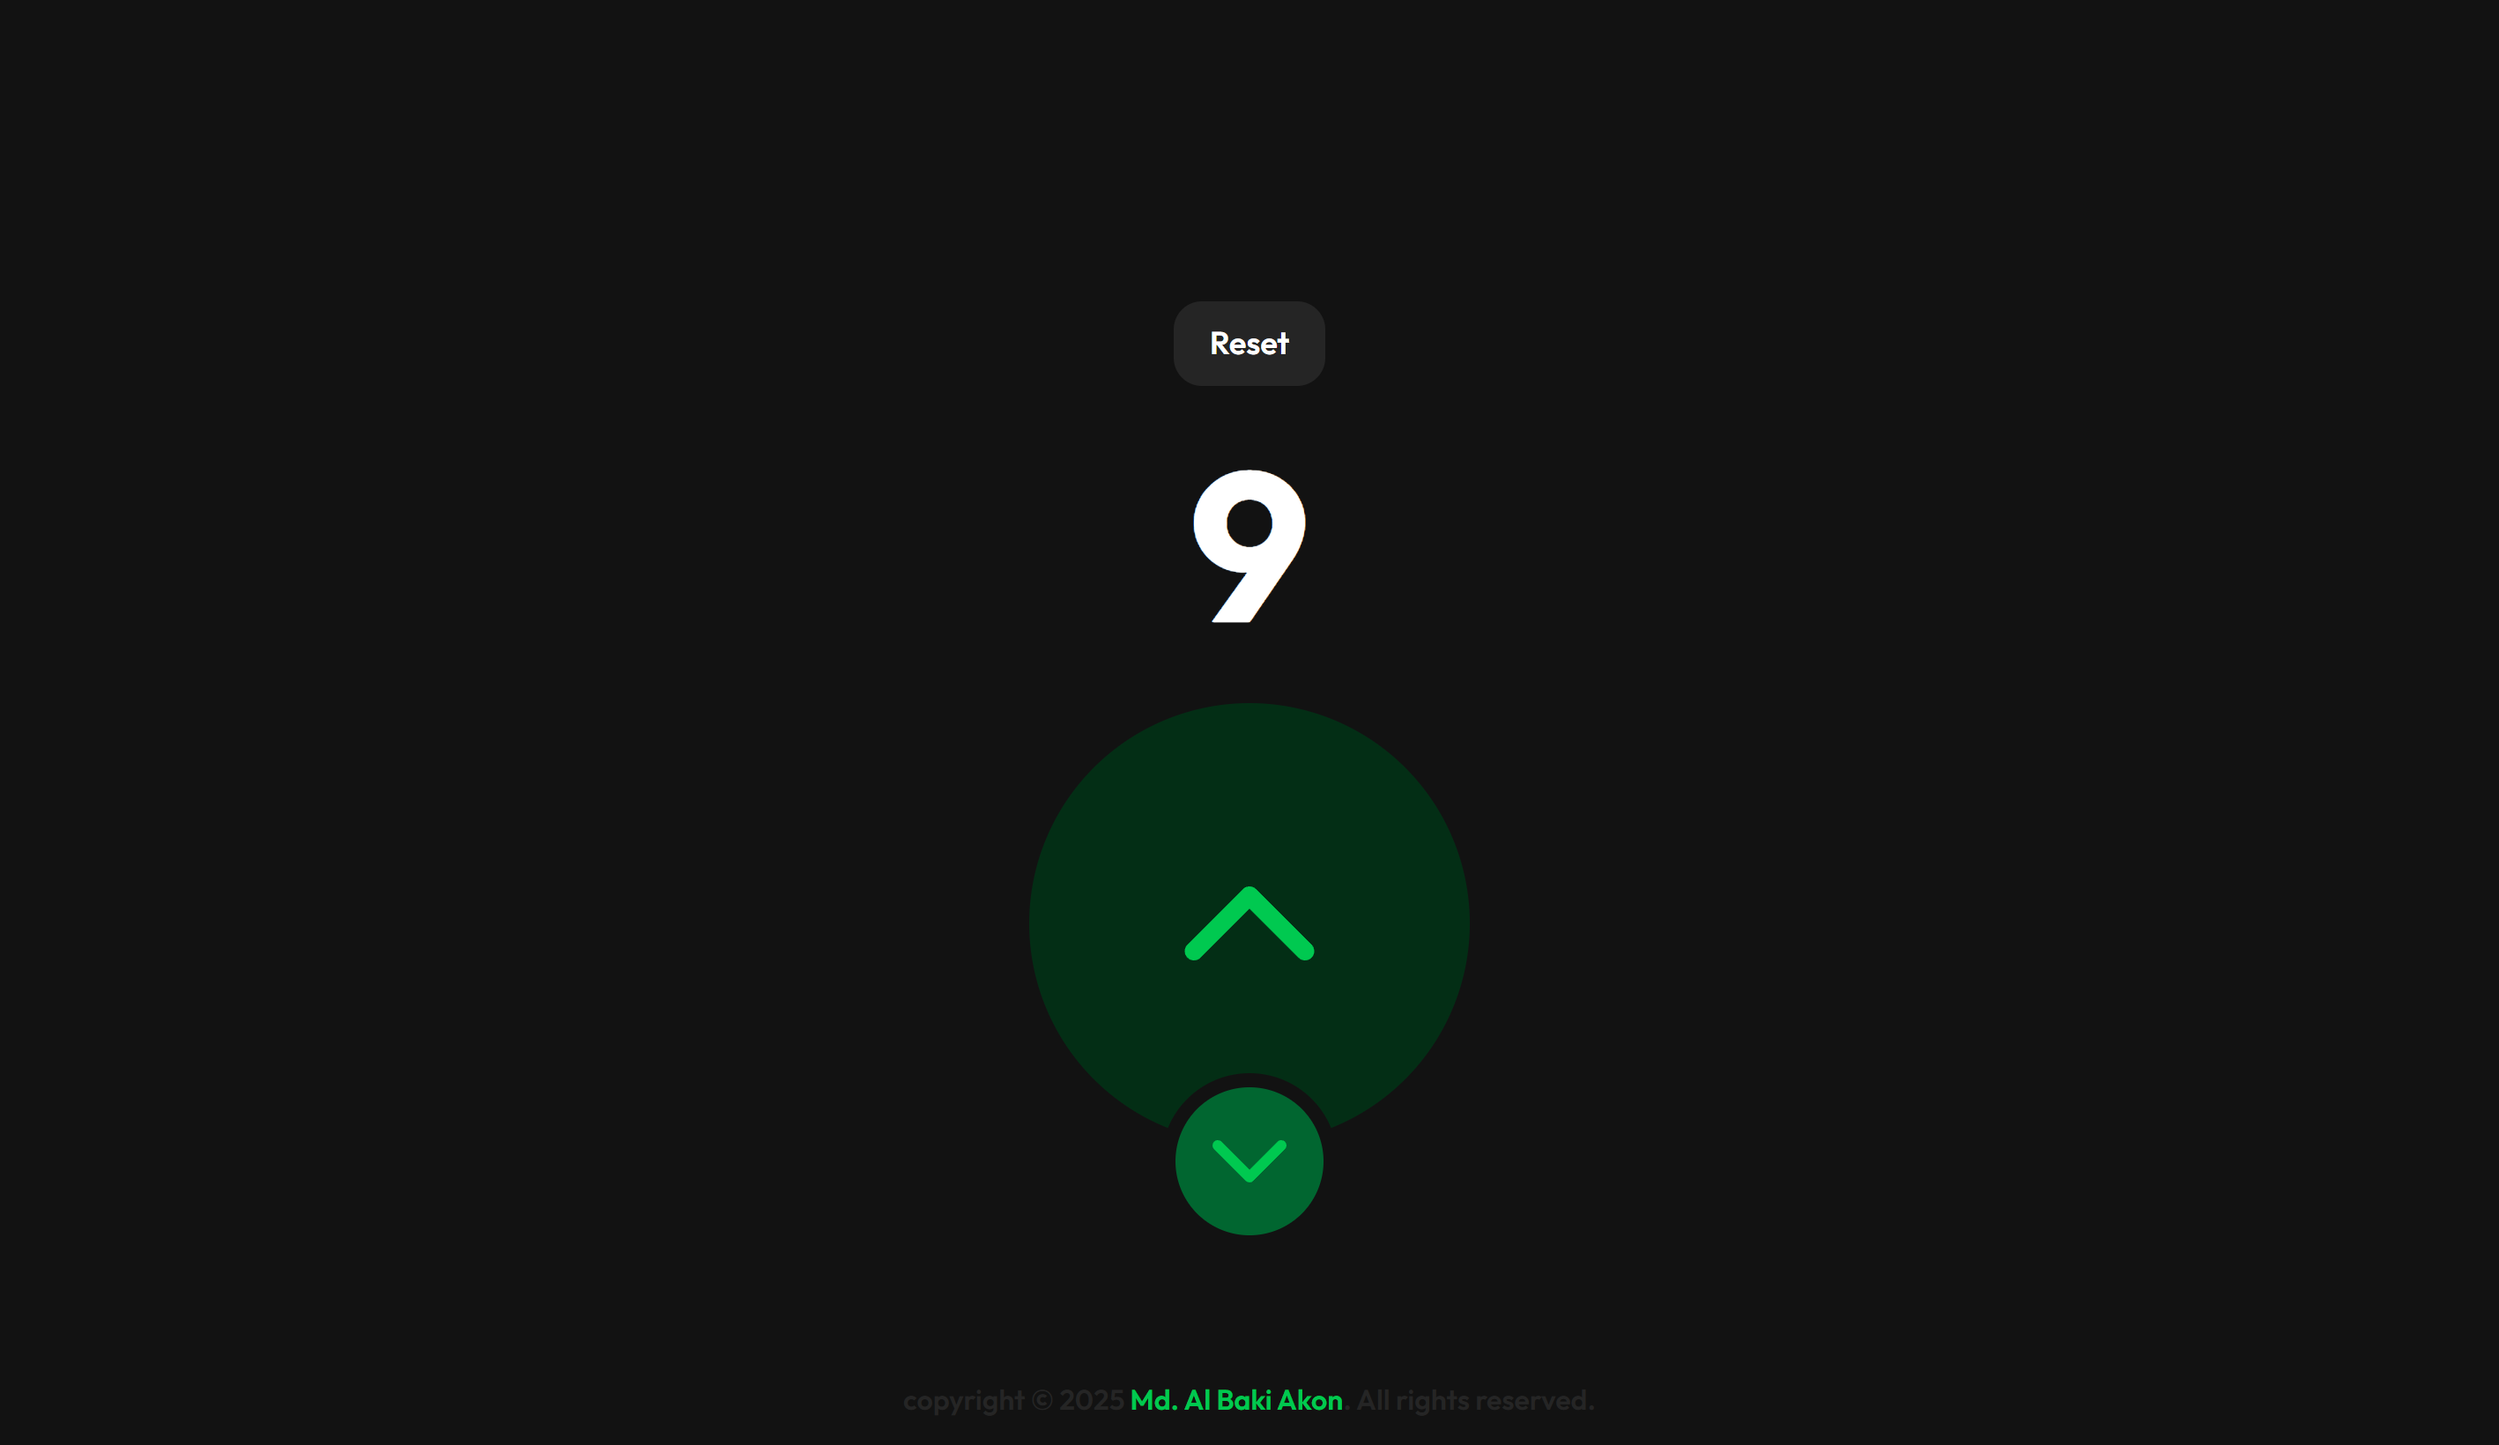
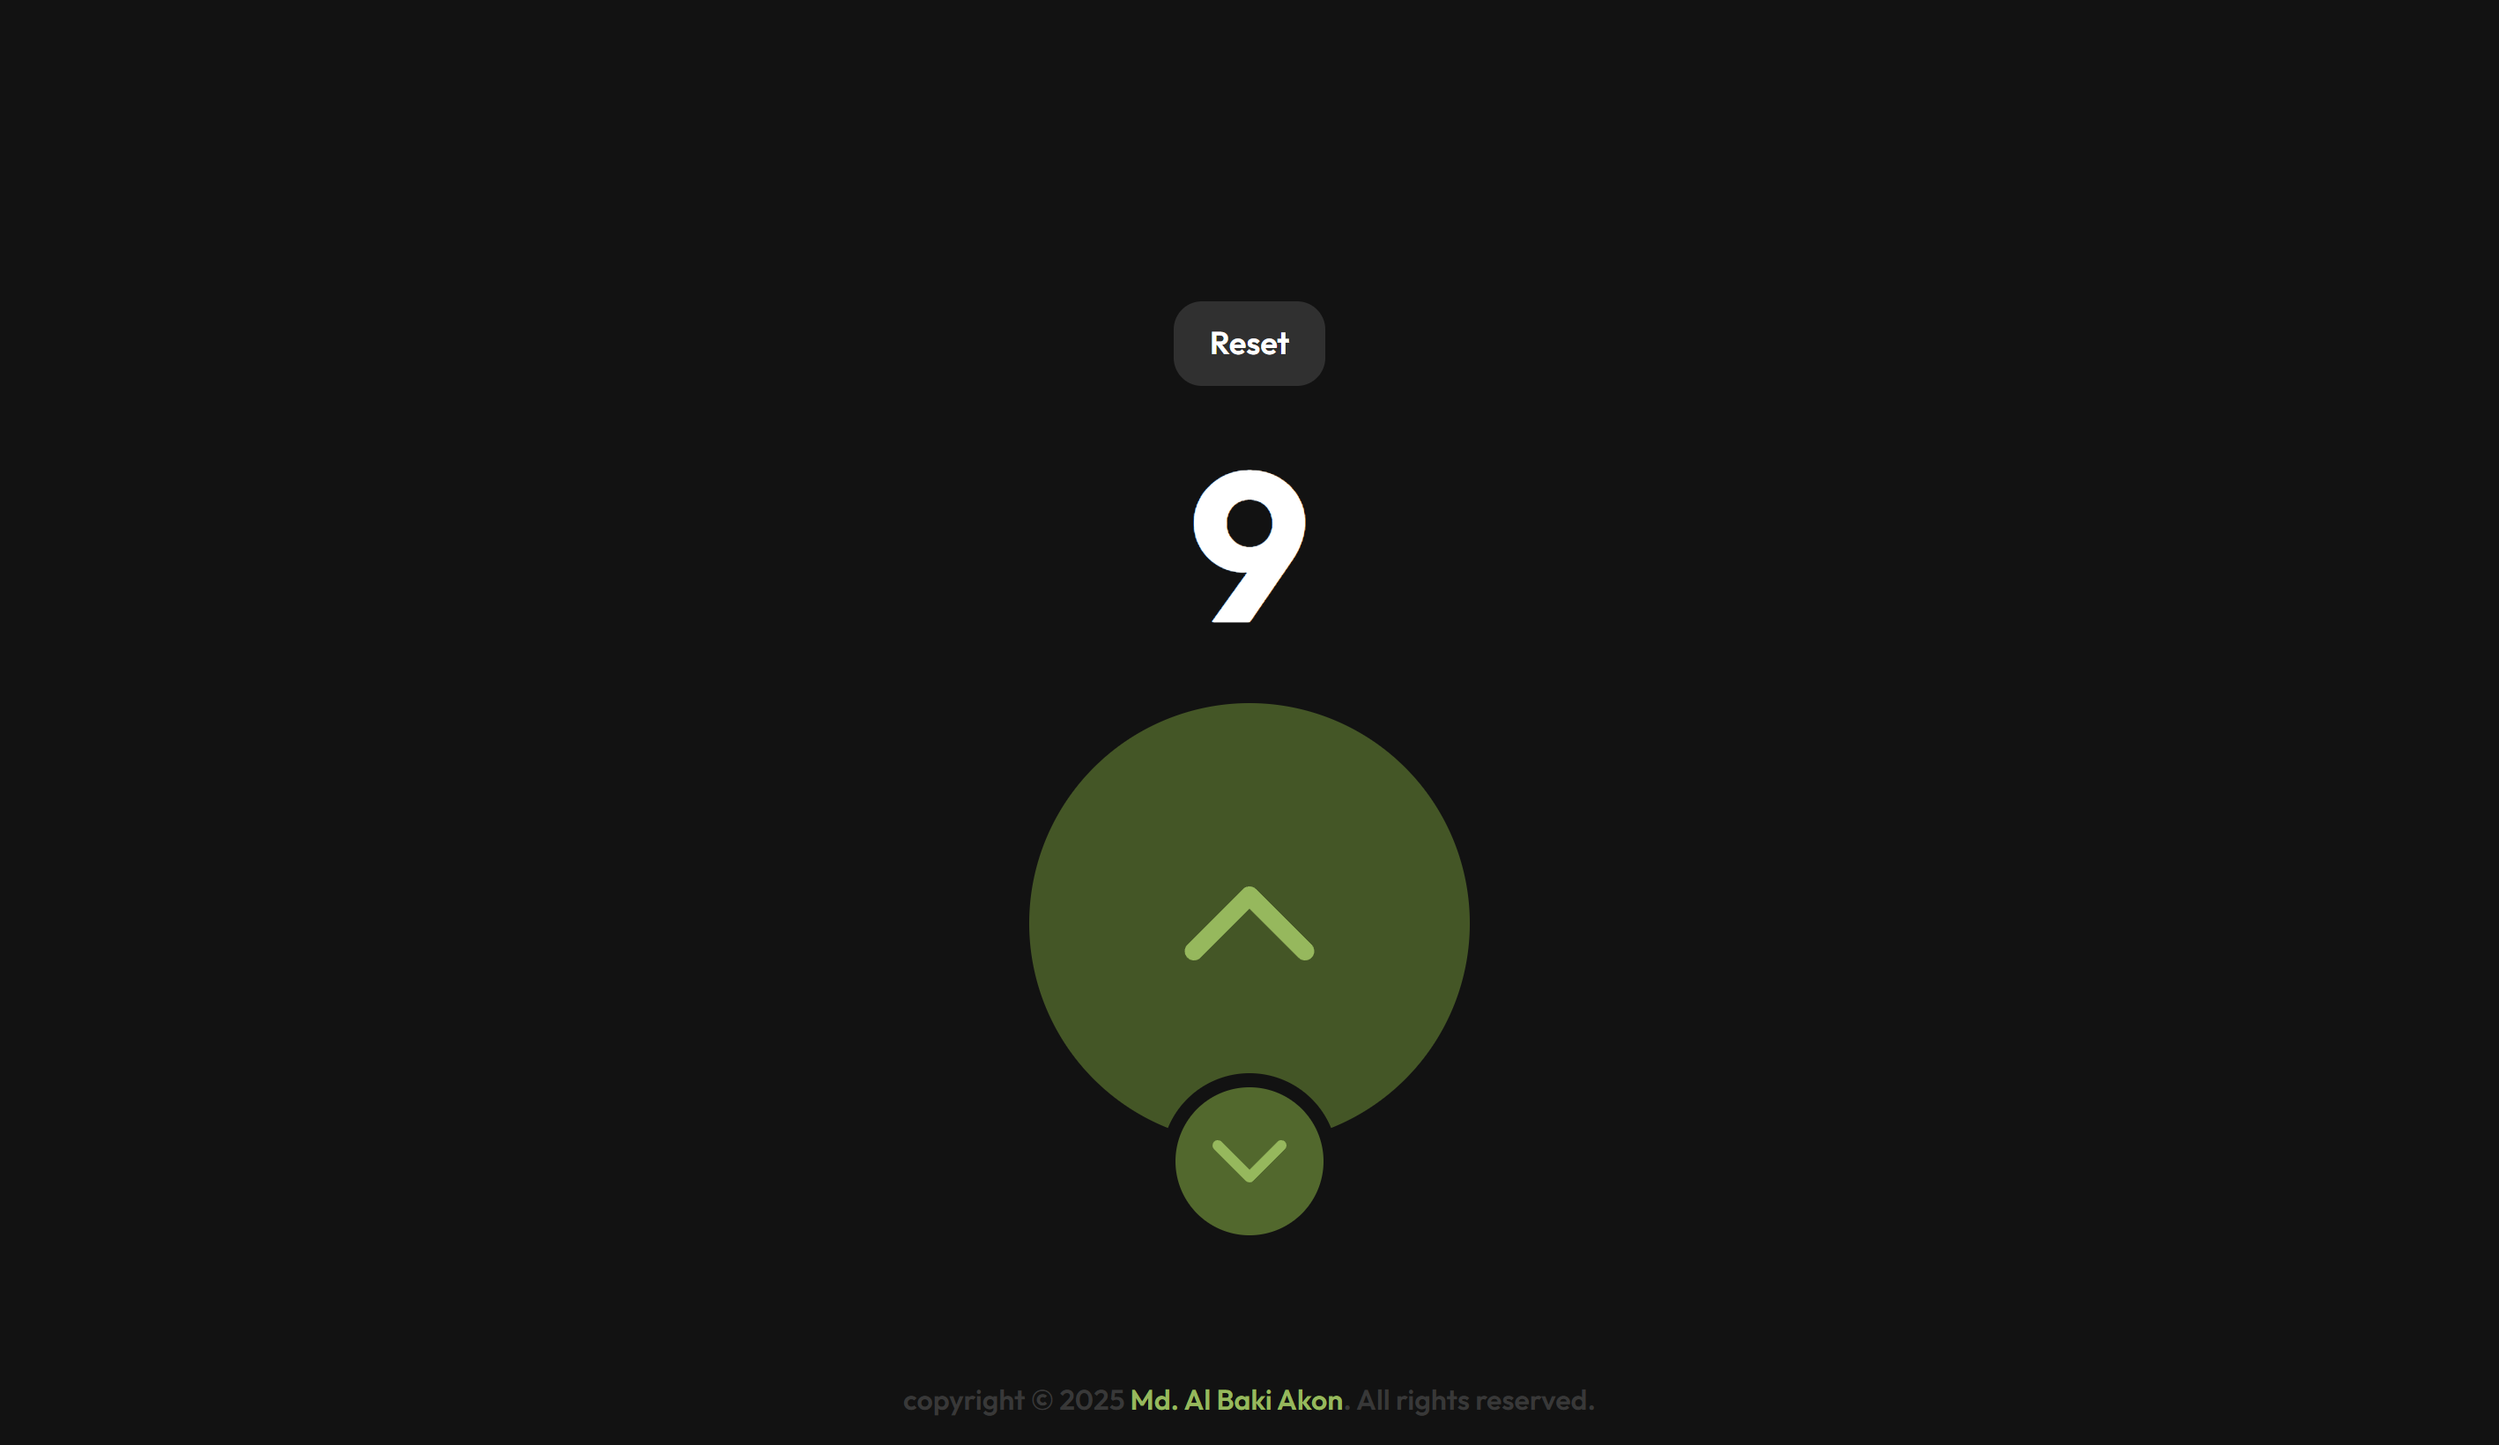
Improving UI with vibrant color

Changed region(s): [[0.4034, 0.4665, 0.5896, 0.8707], [0.4654, 0.964, 0.5275, 0.9951]]

diff --git a/src/components/Lowerbtn.jsx b/src/components/Lowerbtn.jsx
@@ -5,7 +5,7 @@ const Lowerbtn = ({onClick}) => {
   return (
     <div 
         onClick={onClick}
-        className='w-[100px] aspect-square bg-[#445626] border-8 border-[#121212] rounded-full flex items-center justify-center cursor-pointer absolute -bottom-15 left-1/2 -translate-x-1/2 z-50 transition-all duration-300 ease-in-out active:bg-[#52682D]'>
+        className='w-[100px] aspect-square bg-[#445626] border-8 border-[#121212] rounded-full flex items-center justify-center cursor-pointer absolute -bottom-15 left-1/2 -translate-x-1/2 z-50 transition-all duration-300 ease-in-out active:bg-[#6E8B3D]'>
         <ChevronDown color='#96B85D' size={72} />
     </div>
   )

diff --git a/src/components/Upperbtn.jsx b/src/components/Upperbtn.jsx
@@ -5,7 +5,7 @@ const Upperbtn = ({ onClick }) => {
   return (
     <div
       onClick={onClick}
-      className=' w-[215px] md:w-[250px] aspect-square bg-[#445626] rounded-full flex items-center justify-center cursor-pointer z-40 transition-all duration-300 ease-in-out active:bg-[#52682D]'>
+      className=' w-[215px] md:w-[250px] aspect-square bg-[#445626] rounded-full flex items-center justify-center cursor-pointer z-40 transition-all duration-300 ease-in-out active:bg-[#6E8B3D]'>
       <ChevronUp color='#96B85D' size={126} />
     </div>
   )
